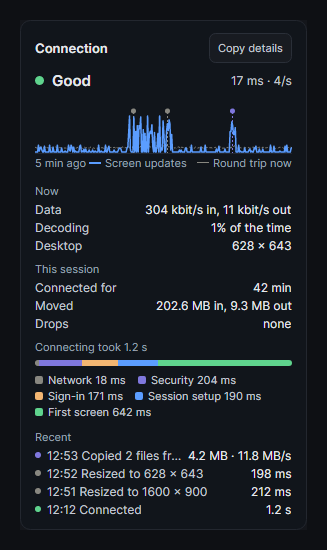
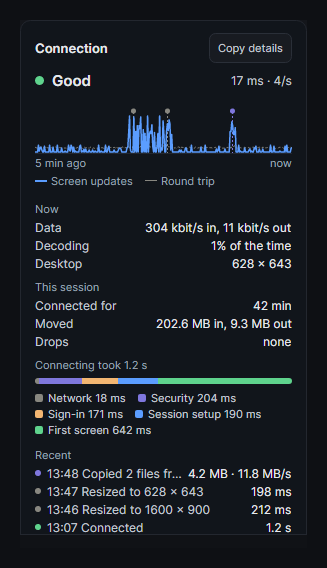
Remote desktop: a server slow to resize isn't asked again in the middle of a drag; the card's graph keys get their own line
A server measured at 13:40 took over 500 ms per resize, so the asks made every 300 ms through a drag of the properties pane queued six resizes over 2.6 s. The view now times each resize, from asking to the picture at the new size, and when the last took 250 ms or more it asks at the start of a drag and once the size settles, not on the way. Fast servers still follow the drag.

The Connection card's time axis (5 min ago ... now) and its keys (Screen updates, Round trip) shared one row and ran into each other in a narrow pane; the keys now sit on a line of their own.

diff --git a/src/Orrery.App/Sessions/RemoteFrameView.cs b/src/Orrery.App/Sessions/RemoteFrameView.cs
@@ -94,6 +94,10 @@ public sealed partial class RemoteFrameView : Panel
     internal static readonly TimeSpan ResizeSettleDelay = TimeSpan.FromMilliseconds(150);
     internal static readonly TimeSpan ResizeMaxWait = TimeSpan.FromMilliseconds(300);
 
+    // Some servers take half a second or more to resize. Asking on the way through a drag then only queues resizes
+    // behind each other, so for those the size is asked for at the start of a drag and once it settles, not on the way.
+    internal static readonly TimeSpan SlowResize = TimeSpan.FromMilliseconds(250);
+
     // How long the old picture stays stretched to the view if the server never sends the new size.
     static readonly TimeSpan StretchGiveUp = TimeSpan.FromSeconds(2);
 
@@ -106,6 +110,10 @@ public sealed partial class RemoteFrameView : Panel
     bool _serverFollows;
     bool _stretching;
     bool _askedForSize;
+    long _askedAt;
+
+    /// <summary>How long the server took, from asking to its picture at the new size, the last time it resized.</summary>
+    internal TimeSpan? LastResizeTook { get; set; }
 
     readonly object _dirtyLock = new();
     readonly DispatcherTimer _resizeTimer;
@@ -668,7 +676,7 @@ public sealed partial class RemoteFrameView : Panel
             {
                 _resizeWantedSince = now;
             }
-            else if (System.Diagnostics.Stopwatch.GetElapsedTime(_resizeWantedSince, now) >= ResizeMaxWait)
+            else if (System.Diagnostics.Stopwatch.GetElapsedTime(_resizeWantedSince, now) >= ResizeMaxWait && !(LastResizeTook >= SlowResize))
             {
                 // Still dragging: ask for the size so far, so the desktop follows instead of catching up at the end.
                 AskForViewSize();
@@ -698,6 +706,11 @@ public sealed partial class RemoteFrameView : Panel
         if (_spannedMonitors is not { } monitors || Session is not IMultiMonitorSession spread || !spread.RequestMonitorLayout(monitors))
         {
             var (width, height) = DesktopSize(Bounds.Size, _topLevel?.RenderScaling ?? 1, _zoom);
+            if (Session.State == SessionState.Connected && (width != Session.Width || height != Session.Height))
+            {
+                _askedAt = System.Diagnostics.Stopwatch.GetTimestamp();
+            }
+
             Session.RequestResize(width, height);
             _askedForSize |= Session.State == SessionState.Connected;
             if (_stretching)
@@ -788,6 +801,12 @@ public sealed partial class RemoteFrameView : Panel
                 _image.Source = _bitmap;
                 // A new size after Orrery asked for one: the server follows the view, so later resizes stretch meanwhile.
                 bool followed = ResizesToView;
+                if (_askedForSize && _askedAt != 0)
+                {
+                    LastResizeTook = System.Diagnostics.Stopwatch.GetElapsedTime(_askedAt);
+                    _askedAt = 0;
+                }
+
                 _serverFollows |= _askedForSize;
                 _askedForSize = false;
                 if (ResizesToView != followed)

diff --git a/tests/Orrery.App.Tests/RemoteFrameViewTests.cs b/tests/Orrery.App.Tests/RemoteFrameViewTests.cs
@@ -487,6 +487,9 @@ public class RemoteFrameViewTests
         Dispatcher.UIThread.RunJobs();
         await Run(TimeSpan.FromMilliseconds(50));
         Assert.False(view.Stretching);
+
+        // How long that took is measured, from asking to the picture at the new size.
+        Assert.True(view.LastResizeTook >= RemoteFrameView.ResizeSettleDelay - TimeSpan.FromMilliseconds(100), $"Took {view.LastResizeTook}");
         window.Close();
     }
 
@@ -509,6 +512,32 @@ public class RemoteFrameViewTests
 
         Assert.True(session.Requests.Count >= 2, $"Asked {session.Requests.Count} times during the drag.");
         Assert.True(session.Requests.Count <= 6, $"Asked {session.Requests.Count} times during the drag.");
+        window.Close();
+    }
+
+    [AvaloniaFact]
+    public async Task A_server_slow_to_resize_is_asked_at_the_start_of_a_drag_and_when_it_settles_only()
+    {
+        var session = new FollowingDesktop();
+        var view = new RemoteFrameView(session);
+        var window = new Window { Content = view, Width = 640, Height = 480 };
+        window.Show();
+        session.Show();
+        await Run(TimeSpan.FromMilliseconds(400));
+        session.Requests.Clear();
+        // As a server measured at 13:40 took; it doesn't answer during the drag, so that stays what's known.
+        view.LastResizeTook = TimeSpan.FromMilliseconds(520);
+        session.Answers = false;
+
+        for (int i = 1; i <= 25; i++)
+        {
+            window.Width = 640 + i * 8;
+            await Run(TimeSpan.FromMilliseconds(40));
+        }
+
+        await Run(RemoteFrameView.ResizeSettleDelay + TimeSpan.FromMilliseconds(100));
+        Assert.Equal(2, session.Requests.Count);
+        Assert.True(session.Requests[1].Width > session.Requests[0].Width + 100, "The second ask is for where the drag ended.");
         window.Close();
     }
 

diff --git a/src/Orrery.App/Sessions/ConnectionCard.cs b/src/Orrery.App/Sessions/ConnectionCard.cs
@@ -60,14 +60,11 @@ sealed class ConnectionCard : Border
             }
         };
 
-        var legend = new Grid { ColumnDefinitions = new ColumnDefinitions("Auto,*,Auto") };
-        var keys = new StackPanel { Orientation = Orientation.Horizontal, Spacing = 10, HorizontalAlignment = HorizontalAlignment.Center, Children = { Key(_primaryLegend, Palette.Accent, dashed: false), _secondaryKey } };
-        var right = Muted("now");
-        Grid.SetColumn(keys, 1);
-        Grid.SetColumn(right, 2);
-        legend.Children.Add(Muted(LinkMonitor.Duration(TimeSpan.FromSeconds(LinkMonitor.HistoryLength)) + " ago"));
-        legend.Children.Add(keys);
-        legend.Children.Add(right);
+        // The time axis under the graph, then the keys on a line of their own: side by side they ran into each other
+        // in a narrow pane.
+        var axis = new DockPanel { Children = { Pane.Docked(Muted("now"), Dock.Right), Muted(LinkMonitor.Duration(TimeSpan.FromSeconds(LinkMonitor.HistoryLength)) + " ago") } };
+        var keys = new WrapPanel { Orientation = Orientation.Horizontal, Margin = new Thickness(0, 2, 0, 0), Children = { Key(_primaryLegend, Palette.Accent, dashed: false), _secondaryKey } };
+        _secondaryKey.Margin = new Thickness(12, 0, 0, 0);
 
         Background = GroupBrush;
         BorderBrush = Pane.LineBrush;
@@ -83,7 +80,7 @@ sealed class ConnectionCard : Border
                 new DockPanel { Children = { Pane.Docked(copy, Dock.Right), heading } },
                 new DockPanel { Children = { Pane.Docked(_figures, Dock.Right), _dot, _verdict } },
                 _hints,
-                new StackPanel { Spacing = 2, Children = { _graph, legend } },
+                new StackPanel { Spacing = 2, Children = { _graph, axis, keys } },
                 _body,
             },
         };
